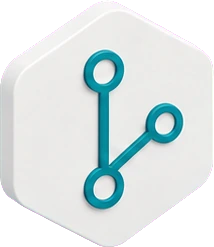
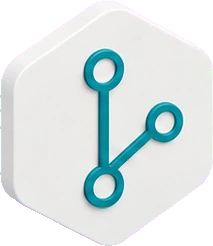
agency props: the grey band was opaque background, not a shadow
⚠ THE "SHADOW CUTTING OFF" UNDER THE CARD WAS NOT A SHADOW. Isolated by
toggling layers and sampling pixels: with the props hidden the area is pure
cream (253,251,247); with the props shown but EVERY shadow disabled it was
still grey (241,241,239). So the grey was the prop files themselves — their
"transparent" regions were partly opaque, and twelve overlapping bounding
boxes stacked that haze into a hard-edged rectangle the width of the field.

CAUSE: the generated sheet's background is NOT flat #FF00FF. It carries
shading and colour spill near each object, so a global "is this pixel magenta
enough" threshold left the weaker areas partially opaque. Now the background
is flood-filled FROM THE IMAGE BORDER, so background is defined by connection
to the edge rather than by colour strength — a dim magenta region is still
background, while the same colour enclosed inside a prop would not be.

Verified rather than assumed: all four corners of all twelve files now read
alpha 0. Previously invisible on a magenta contact sheet and near-invisible on
cream, which is why two earlier passes over these same files missed it.

LEFT-SIDE OVERLAPS (Mario). The front layer was three props, all on the right,
because the right is the only part of the card with no text at any height. The
left works differently: the card's TOP band (above the eyebrow) and BOTTOM band
(below the button) are empty across the full width, so wordpress now crosses
[…]

diff --git a/style.css b/style.css
@@ -4,7 +4,7 @@ Theme URI: https://sitestaffr.com
 Author: SiteStaffr
 Author URI: https://sitestaffr.com
 Description: Marketing site theme for SiteStaffr pages managed in Git.
-Version: 0.8.35
+Version: 0.8.36
 Text Domain: sitestaffr-website
 */
 

diff --git a/page-landing.php b/page-landing.php
@@ -2331,6 +2331,19 @@ $faq_columns     = array_chunk( $faq_group_names, 2 );
        prop is ever moved, re-count — this is the kind of thing that drifts one edit at a
        time.
 
+       ⚠ THE FRONT LAYER STRADDLES BOTH SIDES (Mario, 2026-08-27: "make a few of them
+       overlap on the left side as well"). It was three props, all on the right, because
+       the right is the only part of the card with no text ANYWHERE down its height.
+
+       The left works differently: the heading, the three columns and the button occupy
+       the middle of the card, but its TOP band (above the eyebrow) and BOTTOM band (below
+       the button) are empty across the full width. So the two left-hand front props cross
+       the card's top and bottom EDGES rather than its side — wordpress over the top edge,
+       swatches over the bottom edge. Verified against real text ink, not block boxes.
+
+       ⚠ Do not promote `laptop` to the front layer. At 242px it reaches ~150px past the
+       card's left edge, which lands squarely on the heading.
+
        ⚠ SIZES ARE DELIBERATELY UNEVEN (Mario, 2026-08-27: "I want the laptop asset to be
        a bit bigger and I want all the assets to have varying sizes"). They previously sat
        between 116 and 182 — a 1.6x spread, which at a glance reads as one size. The range
@@ -2346,9 +2359,9 @@ $faq_columns     = array_chunk( $faq_group_names, 2 );
        the viewport edge and read as cropped images. Measured, not guessed. Raise the
        breakpoint before raising these. */
     array( 'laptop',      'back',  'top:4%;left:-8%;',      242 , 0, -3 ),   /* left  */
-    array( 'wordpress',   'back',  'top:1%;left:14%;',       74 , 0, 6 ),
+    array( 'swatches',    'front', 'bottom:13%;left:-6%;',  172 , 0, -5 ),
     array( 'site-stack',  'back',  'top:46%;left:-8%;',     148 , 1, 4 ),
-    array( 'swatches',    'back',  'bottom:10%;left:-7%;',  168 , 0, -5 ),
+    array( 'wordpress',   'front', 'top:15%;left:11%;',      78 , 0, 6 ),
     array( 'browser',     'back',  'top:3%;left:24%;',      118 , 1, 5 ),   /* middle */
     array( 'analytics',   'back',  'bottom:1%;left:33%;',   186 , 0, -4 ),
     array( 'notes',       'back',  'bottom:6%;left:59%;',   112 , 1, 9 ),
